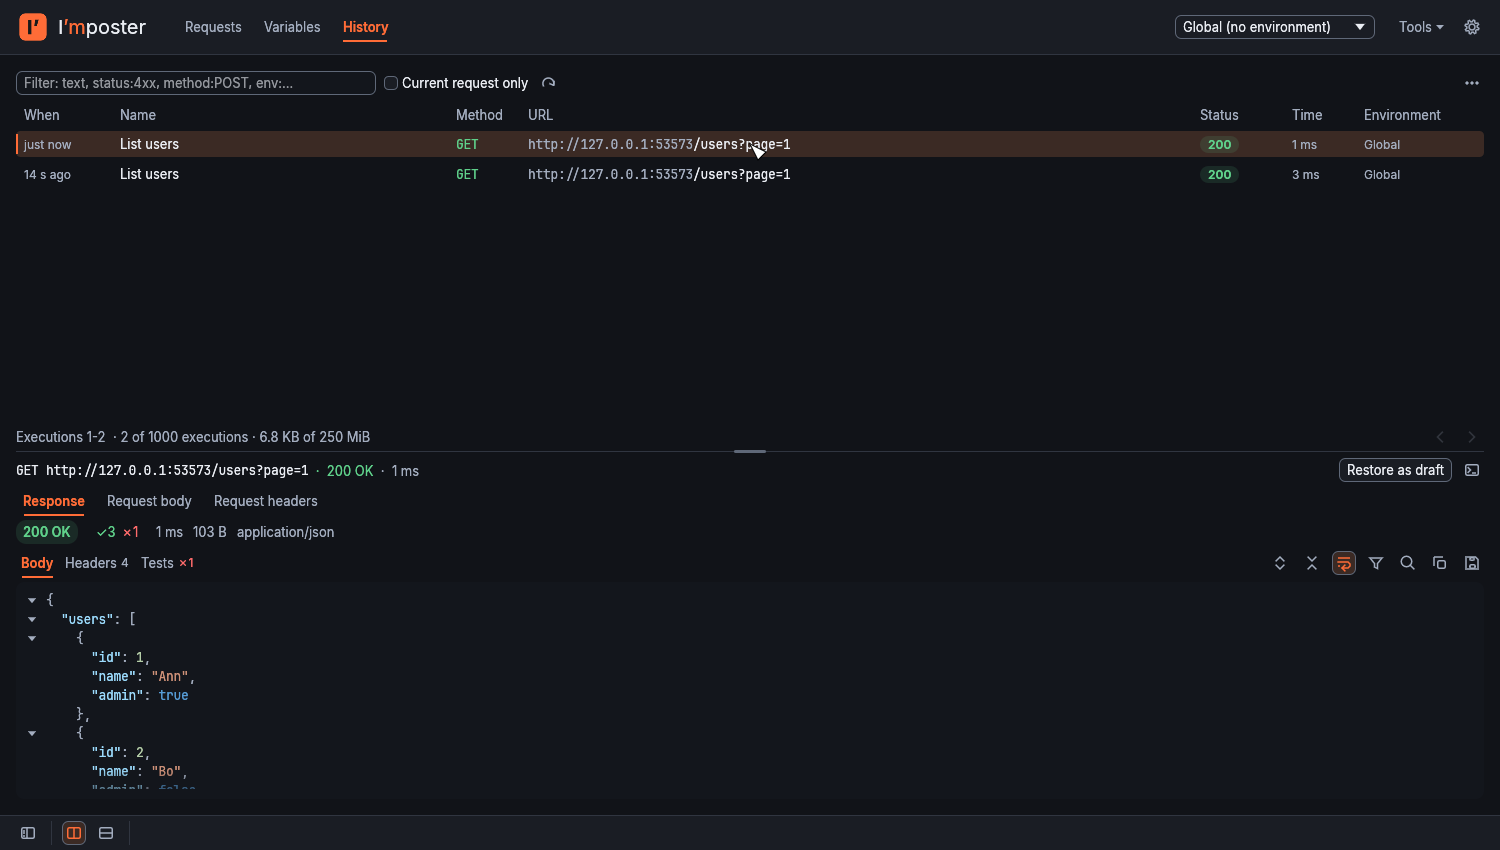
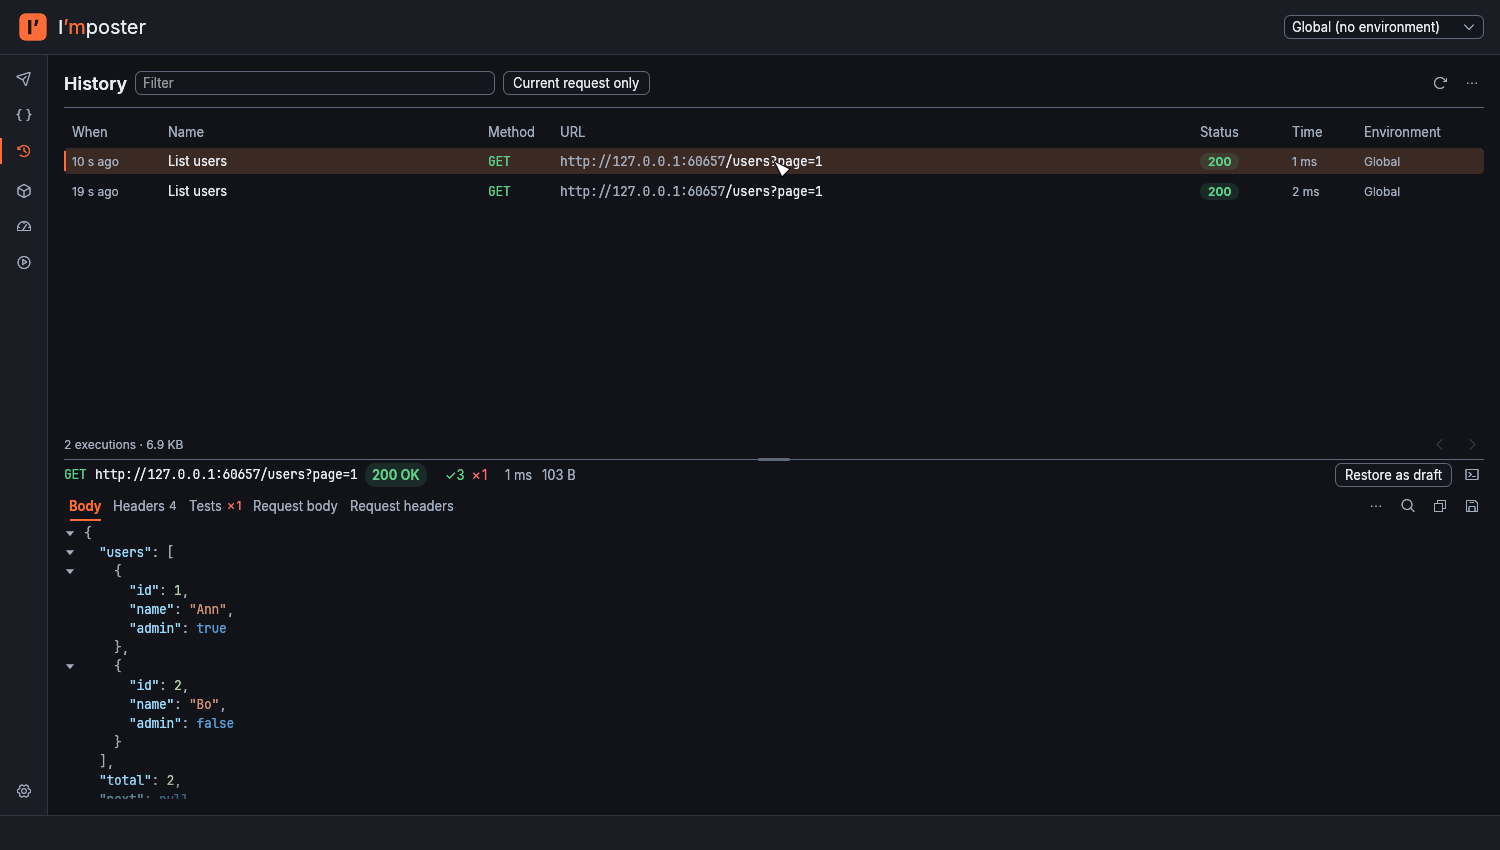
Refresh README for the rail UI and fold orphaned feature prose
Replace the pre-rail screenshots, move Settings/Mocks fragments into Features, credit Phosphor, and list the script and CLI crates.

diff --git a/README.md b/README.md
@@ -46,7 +46,13 @@ figures. See the [machine, method and all samples](docs/validation.md#packaged-0
   A stream cut at the response limit, timed out or stopped never passes.
 - Per-request settings that override the application defaults: timeout, redirects,
   certificate verification, cookies, the cookie jar, proxy, CA bundle, client certificate
-  and key, and response size limit.
+  and key, and response size limit. In **More → Settings**, choose **Default**, **On** or
+  **Off** for on/off overrides. Hover over **Default** to see the application setting.
+  Text fields show the inherited value until you enter an override, which you can clear
+  with the reset icon.
+- **More → Docs** edits the request description that saves and exports with it.
+- Right-click a request and choose **Duplicate** to create and open a saved sibling copy.
+  An open request copies its current edits; navigation still resolves unsaved changes.
 - Autosave, or explicit save. Unsaved changes are never lost silently: switching requests,
   restoring from history and closing all ask first.
 
@@ -216,6 +222,33 @@ figures. See the [machine, method and all samples](docs/validation.md#packaged-0
 
 ![History: executions, and the request as it was sent](docs/images/history.png)
 
+**Mocks**
+- Open **Mocks** in the left rail to configure a local HTTP server on `127.0.0.1`. Use the
+  **Port** field to choose a port (8080 by default, `auto` at 0). Use the Plus in the
+  **Routes** header to add a route by exact method and encoded path. The body highlights
+  JSON. Query strings and request bodies do not affect matching, and unmatched requests
+  return 404. Save before pressing **Start**. The running URL and its copy icon are in the
+  toolbar. Save running configuration edits, then use **Stop** and **Start** to apply them.
+  Configuration persists across sessions. The server starts on demand and stops when
+  Imposter closes.
+- A mock answers locally from the routes and scripts you define. A passing check against
+  that answer does **not verify the live API**.
+- A route can also have a response script (Rhai, as request scripts are) that starts from
+  its status, headers and body and changes them from the request: echo it, answer 400 when
+  a field is missing, fail the first call and succeed after, or wait before answering.
+  `state` keeps values between requests until the server stops:
+
+```rhai
+state.calls = (state.calls ?? 0) + 1;
+if state.calls == 1 { response.status = 503; }
+response.send_json(#{ calls: state.calls, item: request.json().item });
+```
+
+- Scripts read request bodies up to 1 MiB, run one at a time for at most a second, and a
+  failing one answers 500 with its line. A route whose script does not compile keeps the
+  server from starting. While it runs, "Answered requests" lists what came in and what went
+  out, with script errors and printed lines (never bodies).
+
 **Import and export**
 - Native `.imposter.json` (`"format": "imposter"`) carries request checks, captures, saved
   variable values and environment colors. Exports use **version 4** when a capture stores
@@ -270,6 +303,13 @@ figures. See the [machine, method and all samples](docs/validation.md#packaged-0
 - Dark, light or system theme, and Compact or Comfortable density (Settings → Appearance).
   Every control has an accessible name for screen readers; text colors meet WCAG AA
   contrast in both themes, and control edges 3:1.
+- Application **Settings** opens from the rail (or Cmd/Ctrl+,). Categories sit in a list on
+  the left; amber dots mark edited ones, and **Save settings** saves across all of them.
+  Hover an info icon for help.
+- **Settings → TLS → Host client certificates** assigns a client certificate, optional key
+  and password to an exact HTTPS host and port (default 443). Request overrides take
+  priority. Redirects select credentials again for their destination. Copy as curl uses the
+  initial identity and cannot reproduce identity switching across redirects.
 
 ## Not supported
 
@@ -530,7 +570,8 @@ logs credentials, tokens, or request and response bodies.
 
 The interface is set in [Inter](https://rsms.me/inter/) and data in
 [JetBrains Mono](https://www.jetbrains.com/lp/mono/), both under the SIL Open Font License 1.1;
-the licenses ship in `crates/imposter-ui/assets/fonts` and inside every package.
+icons use [Phosphor](https://phosphoricons.com/) (MIT). The licenses ship in
+`crates/imposter-ui/assets/fonts` and inside every package.
 
 ## Development
 
@@ -577,9 +618,11 @@ which an architecture test enforces:
 | `imposter-core` | Domain types and rules: variables, settings, URLs, request preparation, curl, checks. No IO. |
 | `imposter-http` | HTTP transport: TLS (rustls), redirects, Digest auth, streamed uploads, cancellation. |
 | `imposter-store` | SQLite persistence on its own thread, with migrations and backups. |
+| `imposter-script` | Rhai scripts for requests and mock routes. |
 | `imposter-transfer` | Native (`.imposter.json`), Postman v2.1 and OpenAPI 3 conversion and validation. |
-| `imposter-app` | Services the UI calls: execution, saving, history, import and export. |
+| `imposter-app` | Services the UI and CLI call: execution, saving, history, import and export. |
 | `imposter-ui` | The egui interface. |
+| `imposter-cli` | Command-line and MCP entry points. |
 | `imposter` | The binary. |
 | `imposter-testkit` | Loopback servers and certificates for tests. |
 
@@ -593,34 +636,3 @@ Further reading:
 
 `cargo run -p imposter-ui --example screenshot -- <dir>` renders the app with sample data to
 PNG files, without a display.
-
-In **More → Settings**, choose **Default**, **On** or **Off** for on/off overrides.
-Hover over **Default** to see the application setting. Text fields show the inherited
-value until you enter an override, which you can clear with the reset icon.
-Use **More → Docs** to edit the request description that saves and exports with it.
-
-Right-click a request and choose **Duplicate** to create and open a saved sibling copy.
-An open request copies its current edits; navigation still resolves unsaved changes.
-
-**Settings → TLS → Host client certificates** assigns a client certificate, optional key and password to an exact HTTPS host and port (default 443). Request overrides take priority. Redirects select credentials again for their destination. Copy as curl uses the initial identity and cannot reproduce identity switching across redirects.
-
-Open **Mocks** in the left rail to configure a local HTTP server on `127.0.0.1`. Use the
-**Port** field to choose a port (8080 by default, `auto` at 0). Use the Plus in the **Routes**
-header to add a route by exact method and encoded path. The body highlights
-JSON. Query strings and request bodies do not affect matching, and unmatched requests return
-404. Save before pressing **Start**. The running URL and its copy icon are in the toolbar.
-Save running configuration edits, then use **Stop** and **Start** to apply them. Configuration
-persists across sessions. The server starts on demand and stops when Imposter closes.
-
-A mock answers locally from the routes and scripts you define. A passing check against
-that answer does **not verify the live API**.
-
-A route can also have a response script (Rhai, as request scripts are) that starts from its status, headers and body and changes them from the request: echo it, answer 400 when a field is missing, fail the first call and succeed after, or wait before answering. `state` keeps values between requests until the server stops:
-
-```rhai
-state.calls = (state.calls ?? 0) + 1;
-if state.calls == 1 { response.status = 503; }
-response.send_json(#{ calls: state.calls, item: request.json().item });
-```
-
-Scripts read request bodies up to 1 MiB, run one at a time for at most a second, and a failing one answers 500 with its line. A route whose script does not compile keeps the server from starting. While it runs, "Answered requests" lists what came in and what went out, with script errors and printed lines (never bodies).
